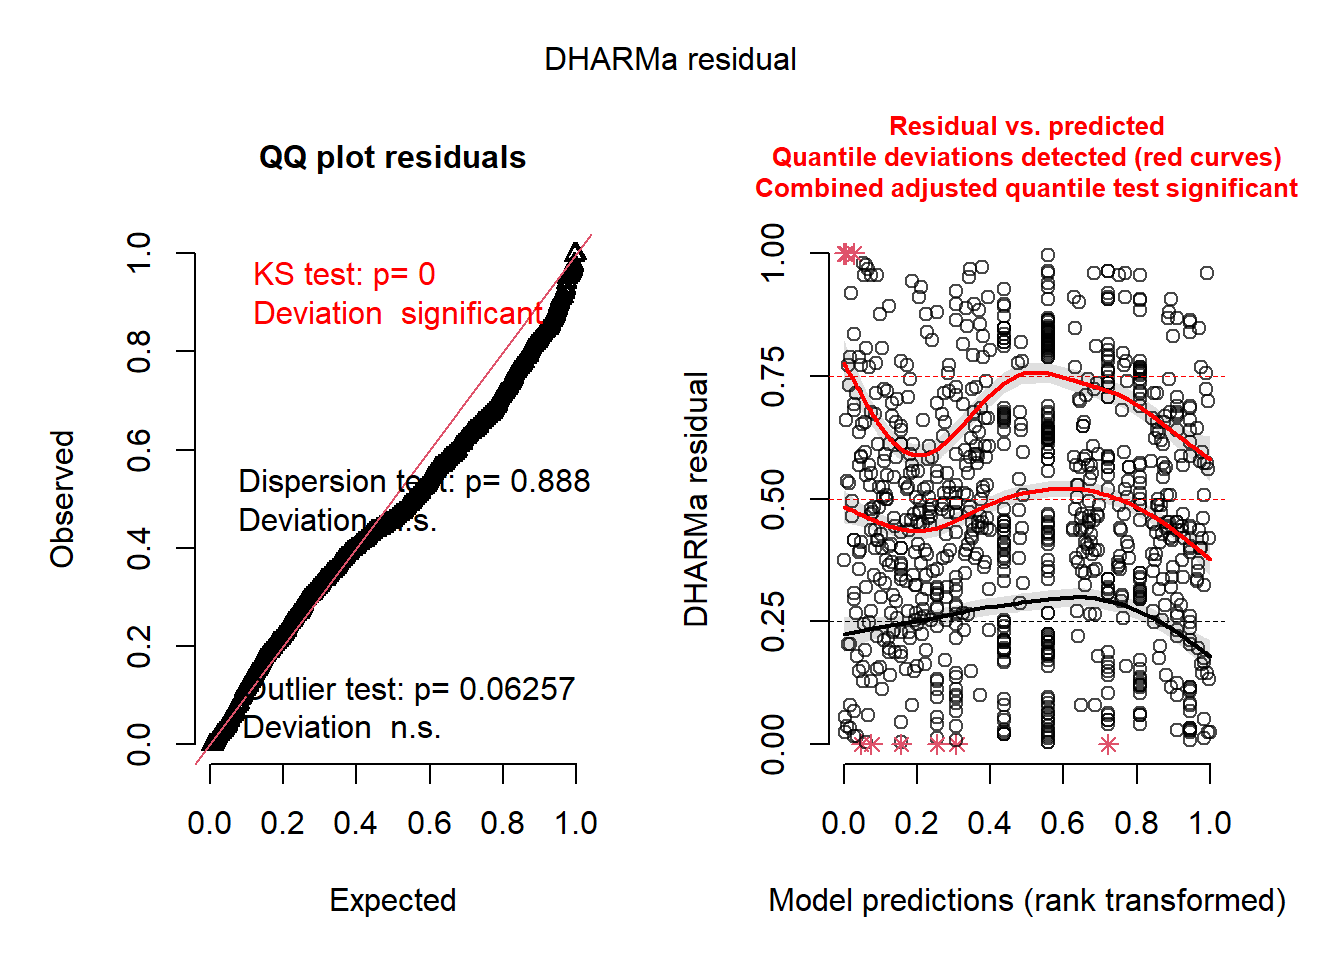
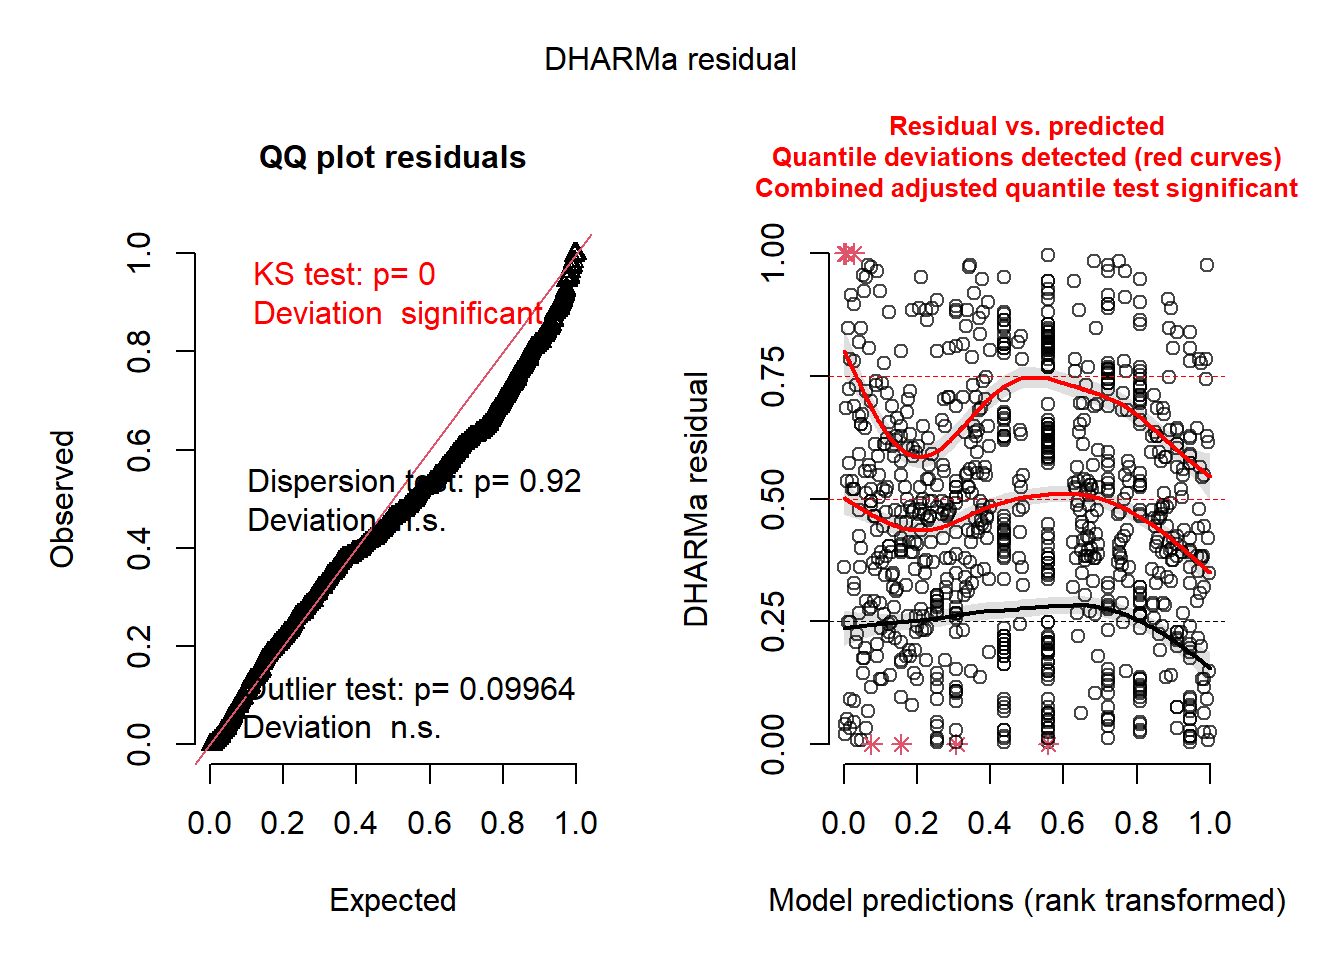
LMM lab: really final

diff --git a/05-A-Linear-Mixed-Models.html b/05-A-Linear-Mixed-Models.html
@@ -585,8 +585,8 @@ width="600" />
 <span id="cb1-19"><a href="#cb1-19" tabindex="-1"></a>mice <span class="ot">&lt;-</span> <span class="fu">read.table</span>(<span class="fu">paste0</span>(repo_url, <span class="st">&quot;/data/mice.txt&quot;</span>), </span>
 <span id="cb1-20"><a href="#cb1-20" tabindex="-1"></a>                   <span class="at">header =</span> <span class="cn">TRUE</span>)</span>
 <span id="cb1-21"><a href="#cb1-21" tabindex="-1"></a></span>
-<span id="cb1-22"><a href="#cb1-22" tabindex="-1"></a><span class="co"># Set seed</span></span>
-<span id="cb1-23"><a href="#cb1-23" tabindex="-1"></a><span class="fu">set.seed</span>(<span class="dv">123</span>)</span></code></pre></div>
+<span id="cb1-22"><a href="#cb1-22" tabindex="-1"></a><span class="co"># # Set seed</span></span>
+<span id="cb1-23"><a href="#cb1-23" tabindex="-1"></a><span class="co"># set.seed(123)</span></span></code></pre></div>
 <div id="sleep-study" class="section level2">
 <h2>Sleep Study</h2>
 <div id="simple-linear-regression" class="section level3">
@@ -981,20 +981,24 @@ least initially. Here’s the global model, and check the residuals:</p>
 <p><img src="05-A-Linear-Mixed-Models_files/figure-html/unnamed-chunk-13-1.png" width="672" /></p>
 <pre><code>## Object of Class DHARMa with simulated residuals based on 250 simulations with refit = FALSE . See ?DHARMa::simulateResiduals for help. 
 ##  
-## Scaled residual values: 0.656 0.544 0.468 0.568 0.456 0.716 0.452 0.512 0.452 0.436 0.432 0.228 0.524 0.504 0.332 0.708 0.272 0.768 0.652 0.548 ...</code></pre>
-<p>The simulated residuals look fine per DHARMa. However, the
+## Scaled residual values: 0.628 0.588 0.476 0.472 0.452 0.74 0.408 0.476 0.512 0.464 0.388 0.192 0.472 0.444 0.324 0.704 0.26 0.808 0.672 0.624 ...</code></pre>
+<p>How do the simulated residuals look for you? Given they’re simulated,
+they could look a bit different each time you run them. However, the
 significant KS test indicates we may not be using the best probability
-distribution (he says sheepishly).</p>
+distribution (he says sheepishly). Regardless, <strong>on your own, dig
+into the <a
+href="https://cran.r-project.org/web/packages/DHARMa/vignettes/DHARMa.html#general-remarks-on-interperting-residual-patterns-and-tests">DHARMa
+vignette</a> a bit and learn about what you’re seeing.</strong></p>
 </div>
 <div id="model-selection" class="section level3">
 <h3>Model selection</h3>
-<p>But regardless, let’s fit a range of models with different random
-effects structures, and compare using AICc. The problem with comparing
-different random effects using Likelihood Ratio tests is that our null
-hypothesis is “on the boundary” of the parameter space, because you
-can’t have negative variances. Choosing a model that has the minimum
-AICc won’t be bothered by this consideration, but this would affect the
-calculation of the weights.</p>
+<p>Let’s fit a range of models with different random effects structures,
+and compare using AICc. The problem with comparing different random
+effects using Likelihood Ratio tests is that our null hypothesis is “on
+the boundary” of the parameter space, because you can’t have negative
+variances. Choosing a model that has the minimum AICc won’t be bothered
+by this consideration, but this would affect the calculation of the
+weights.</p>
 <div class="sourceCode" id="cb14"><pre class="sourceCode r"><code class="sourceCode r"><span id="cb14-1"><a href="#cb14-1" tabindex="-1"></a><span class="co"># uncorrelated random effects # </span><span class="al">NOTE</span><span class="co">: Does not converge!</span></span>
 <span id="cb14-2"><a href="#cb14-2" tabindex="-1"></a>mice<span class="fl">.1</span> <span class="ot">&lt;-</span></span>
 <span id="cb14-3"><a href="#cb14-3" tabindex="-1"></a>  <span class="fu">lmer</span>(ear <span class="sc">~</span> foot <span class="sc">*</span> species <span class="sc">*</span> sex <span class="sc">+</span> (foot <span class="sc">-</span> <span class="dv">1</span> <span class="sc">|</span> site) <span class="sc">+</span> (<span class="dv">1</span> <span class="sc">|</span> site),</span>
